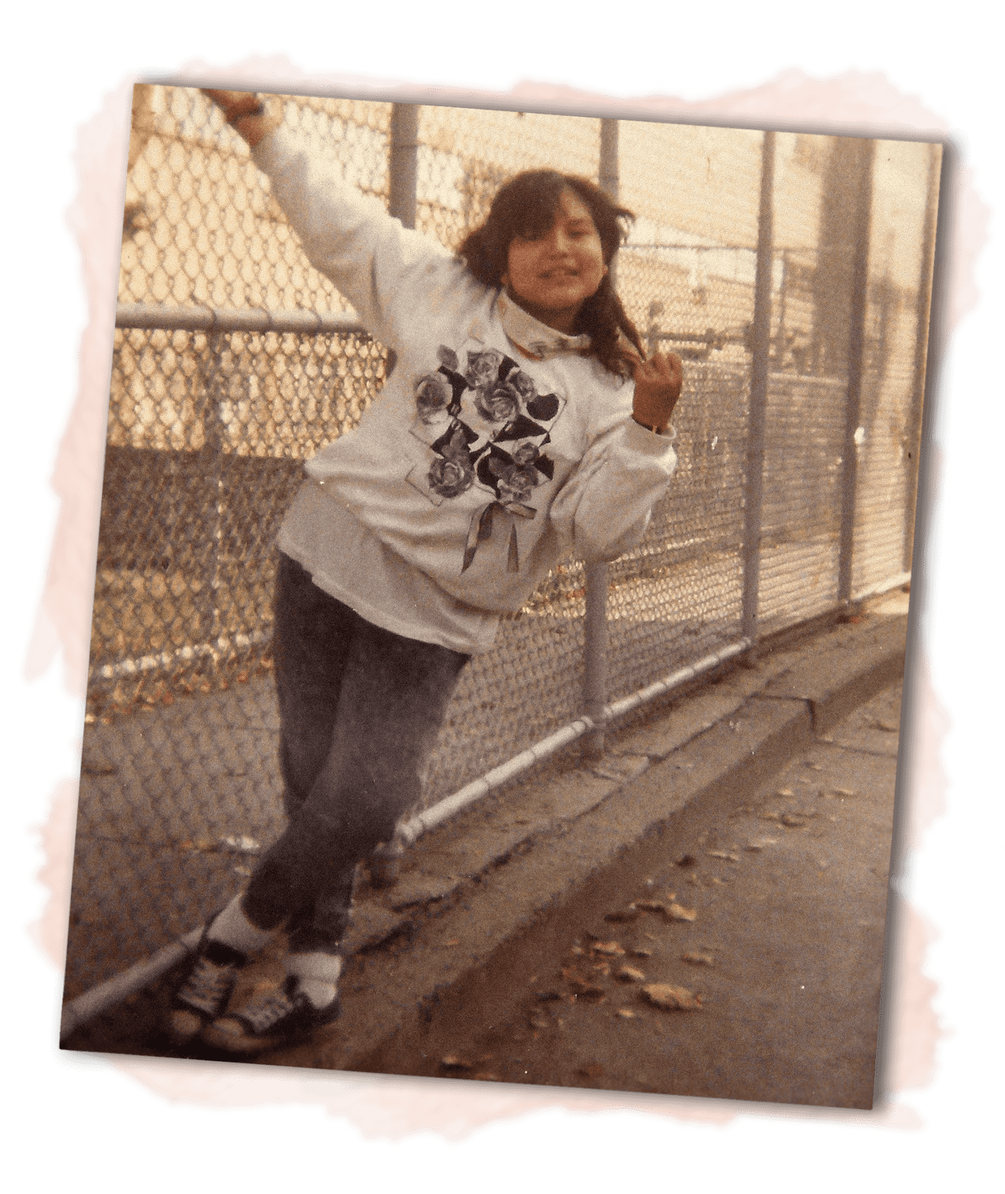
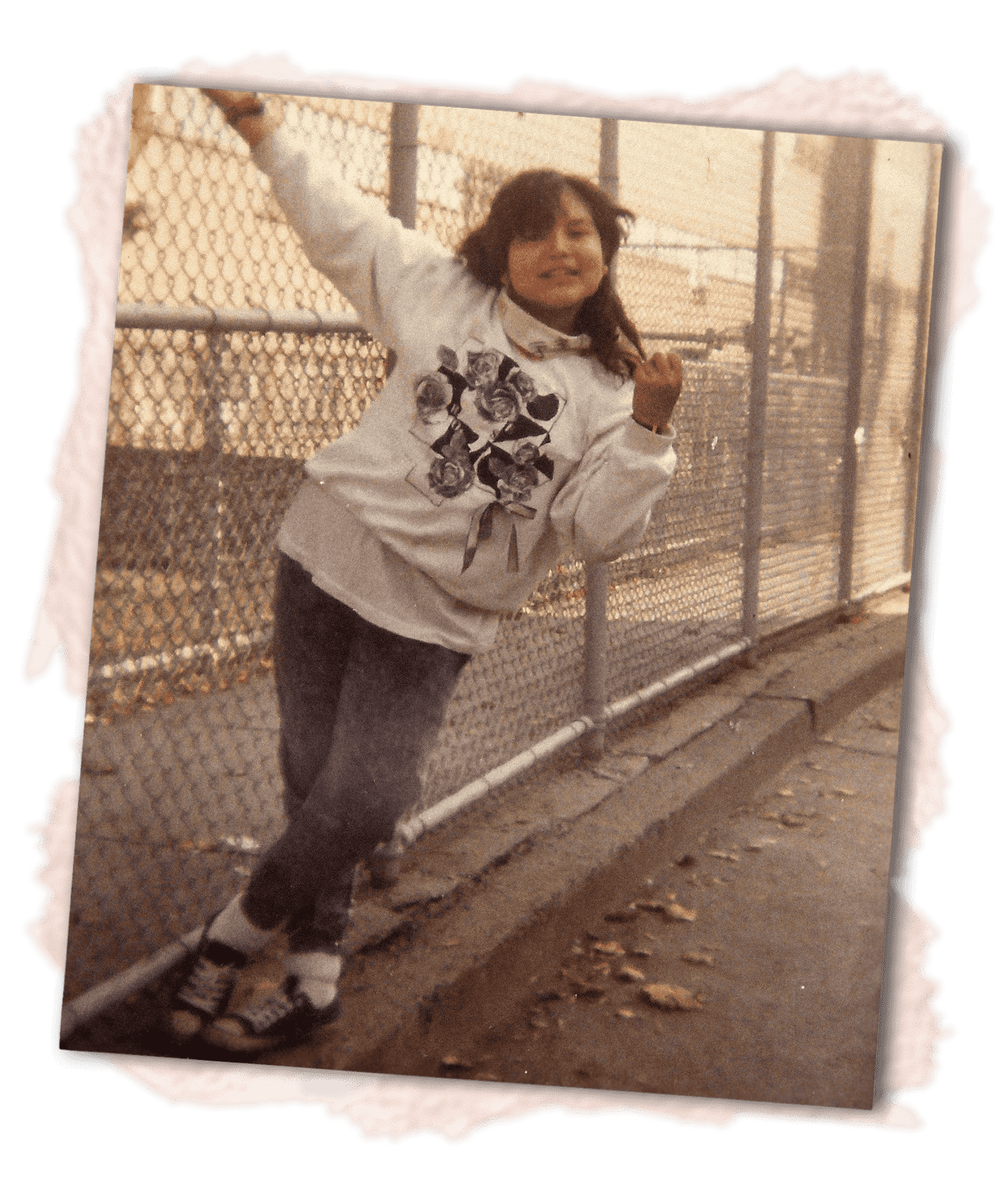
Updating patricia images and updating navbar

diff --git a/css/main.css b/css/main.css
@@ -1,1 +1,1 @@
-@import url('https://fonts.googleapis.com/css?family=Lato');@font-face{font-family:"Quadraat";src:url('../css/fonts/QuadraatOT-Regular.otf')}html *{-webkit-font-smoothing:antialiased;-moz-osx-font-smoothing:grayscale}*,*:after,*:before{-webkit-box-sizing:border-box;-moz-box-sizing:border-box;box-sizing:border-box;margin:0}html,body,#ng-view,#ng-body{height:auto;width:100%;padding:0;margin:0}body{font-family:'Quadraat'}ul{text-align:justify;list-style:none}li span{padding:auto}.row{margin:0}.page-wrap{padding-top:50px;background:#EFE8D8}.section-header{font-size:26px;color:#8b181a;text-align:center;font-weight:bold;margin:auto;width:auto;font-family:'Lato'}.section-divider{width:50px;border-top:1px solid #8b181a;margin:30px auto}.section-wrapper{padding:30px;width:100%}#coming-soon-wrapper{text-align:center;color:#E6E6E6;font-family:'Lato';display:flex;align-items:center}#coming-soon-wrapper h1{text-align:center;width:100%}a{word-wrap:break-word;-webkit-transition:color .1s ease-in,background .1s ease-in;-moz-transition:color .1s ease-in,background .1s ease-in;-ms-transition:color .1s ease-in,background .1s ease-in;-o-transition:color .1s ease-in,background .1s ease-in;transition:color .1s ease-in,background .1s ease-in}a:hover,a:focus{outline:0}a:before,a:after{-webkit-transition:color .1s ease-in,background .1s ease-in;-moz-transition:color .1s ease-in,background .1s ease-in;-ms-transition:color .1s ease-in,background .1s ease-in;-o-transition:color .1s ease-in,background .1s ease-in;transition:color .1s ease-in,background .1s ease-in}.dropdown-menu{text-align:center;background-color:white;padding:10px}.dropdown ul li a{color:#8b181a;background-color:transparent;font-weight:bold;font-size:16px}.nav-pills{height:auto}.nav-pills>li.active>a,.nav-pills>li.active>a:hover,.nav-pills>li.active>a:focus,.dropdown>ul>li>a:hover,.dropdown>ul>li>a:focus,.dropdown>ul>li>a:active,.nav>li>a:hover,.nav>li>a:focus,nav>li>a:active{background-color:transparent;text-decoration:underline}.nav>li>a:hover,.nav>li>a:focus{text-decoration:underline}.nav-pills>li{float:none;padding:10px;text-align:right}.nav-pills>li>a{padding:18px 15px;color:#8b181a}.navbar-header{height:100%}.navbar{font-weight:800;font-size:16px;margin-bottom:50px;font-family:'Lato';height:50px;background-color:white}.navbar-collapse{width:auto;float:right}.navbar-fixed-top{margin-bottom:0}.navbar-fixed-top .container{padding-left:0;padding-right:0}.navbar-brand{background:url('../resources/logos/navbar_logo.png');height:100%;background-repeat:no-repeat;background-size:contain;width:270px;padding:0;background-position:0}.nav{background-color:white}.glyphicon{color:#8b181a}custom-footer,footer{height:50px}footer{float:left;width:100%;padding:15px 0 15px 0;color:#8b181a;font-family:'Lato';height:50px;display:flex;align-items:center;background-color:white}footer span{display:inline-block;width:33%;padding:0 5%}footer #footer-text{text-align:left}footer #footer-copyright{text-align:right}#footer-social-media-icons{text-align:center}#footer-social-media-icons a{margin:0 15px;height:15px;width:15px}#footer-social-media-icons a img{width:inherit;height:inherit}#blurb-logo{background:url('../resources/logos/large_logo.png');height:50%;width:100%;background-repeat:no-repeat;background-size:contain}#blurb{text-align:center;float:left;color:white}#blurb p{padding-top:10%;width:100%;margin:10% auto;font-size:18px}.profile-name{font-size:24px;font-weight:bold;font-family:'Quadraat';width:100%}#landing-background{margin-top:0;padding-top:50px}#landing-background video{display:none}#landing-background #profile-left{background:url('../resources/landing/sonya_mobile.png');background-size:cover;background-position:50%;background-repeat:no-repeat;display:flex;align-items:center;-webkit-transition:color .1s ease-in,background .1s ease-in;-moz-transition:color .1s ease-in,background .1s ease-in;-ms-transition:color .1s ease-in,background .1s ease-in;-o-transition:color .1s ease-in,background .1s ease-in;transition:color .1s ease-in,background .1s ease-in}#landing-background #profile-left:hover{background:url('../resources/landing/sonya_mobile_2.png');background-size:cover;background-position:50%;background-repeat:no-repeat;-webkit-transition:color .1s ease-in,background .1s ease-in;-moz-transition:color .1s ease-in,background .1s ease-in;-ms-transition:color .1s ease-in,background .1s ease-in;-o-transition:color .1s ease-in,background .1s ease-in;transition:color .1s ease-in,background .1s ease-in}#landing-background #profile-right{background:url('../resources/landing/patricia_mobile.png');background-size:cover;background-position:50%;background-repeat:no-repeat;display:flex;align-items:center;-webkit-transition:color .1s ease-in,background .1s ease-in;-moz-transition:color .1s ease-in,background .1s ease-in;-ms-transition:color .1s ease-in,background .1s ease-in;-o-transition:color .1s ease-in,background .1s ease-in;transition:color .1s ease-in,background .1s ease-in}#landing-background #profile-right:hover{background:url('../resources/landing/patricia_mobile_2.png');background-size:cover;background-position:50%;background-repeat:no-repeat;-webkit-transition:color .1s ease-in,background .1s ease-in;-moz-transition:color .1s ease-in,background .1s ease-in;-ms-transition:color .1s ease-in,background .1s ease-in;-o-transition:color .1s ease-in,background .1s ease-in;transition:color .1s ease-in,background .1s ease-in}#landing-background #profile-right,#landing-background #profile-left{background-position:50%;background-repeat:no-repeat;background-size:cover;color:white;text-align:center;margin:auto;padding:5%}#landing-background #profile-right .profile-description,#landing-background #profile-left .profile-description{border-top:1px solid white;padding-top:12px}#landing-background #col-left{float:left;align-items:center;display:flex}#landing-background #col-right{float:right;align-items:center;display:flex}#about-background{height:auto;background:#EFE8D8;background-size:cover}#about-background div{height:auto}#about-background .producers-wrapper{height:auto;display:inline-table}#blurb-wrapper{background-color:transparent}#blurb-wrapper p{padding:30px;text-align:center}#blurb-wrapper img{display:none}.producers-wrapper{background-color:white;padding:15px;margin:5% auto;text-align:center}.producers-wrapper img{border-radius:100px;margin:30px;width:150px;height:150px}.producers-wrapper .section-header{font-size:14px}.producers-blurb{font-family:'Quadraat'}#about-background .team-wrapper{background-color:white;height:300px;width:25%;padding:15px;text-align:center;display:inline-table}#about-background .team-wrapper img{border-radius:100px;margin:15px;width:150px;height:150px}#about-background .team-wrapper .section-header{font-size:14px}#about-background .team-wrapper .team-role,#about-background .team-wrapper .team-sub-role{color:#8b181a;font-family:'Lato';font-size:14px;height:18px}#about-background #team-table{margin:auto;text-align:center}#about-background .team-social-media img{width:25px;height:25px;border-radius:0;margin:15px 5px}#credits-section{background-color:white;margin-bottom:50px;font-family:'Lato'}#credits-section .sponsor{width:33%;display:inline-block;text-align:center;padding:15px 0}#credits-section .sponsor img{max-width:100%;width:auto;height:80px}#credits-section #credits-blurb{text-align:center;margin-bottom:30px;font-family:'Quadraat'}#next-background{text-align:center;font-family:'Quadraat'}#next-background .section-wrapper{padding:10% 20%}#next-blurb{font-size:36px;color:#8b181a}#next-author-quote{font-style:italic;color:#8b181a}#contact-blurb{padding:5% 20%;background-color:transparent;margin:10% auto}#contact-blurb span{color:#8b181a}#sonya-background{background:url('../resources/sonya/background.jpg');color:white;display:flex;align-items:center;min-height:600px}#sonya-background h1{text-align:center;width:100%}#patricia-background{background:url('../resources/patricia/background.jpg');color:white;display:flex;align-items:center;min-height:600px}#patricia-background h1{text-align:center;width:100%}@media (max-width:480px){#r0{padding-left:0;padding-right:0}.navbar .navbar-collapse{max-height:none}.navbar ul{float:none}.navbar ul:not{display:block}.navbar li{float:none;display:block}.navbar li a{padding-top:12px;padding-bottom:12px}.navbar-brand{width:250px}#footer-social-media-icons a{height:15px;width:15px}footer{font-size:13px}}@media (max-width:690px){.navbar .container{padding-left:10px;padding-right:10px}.nav-pills,.navbar-right{height:auto}#landing-background #col-right,#landing-background #col-left{width:100%;height:30%}#about-background .team-wrapper{width:100%;margin:5% 0}#next-blurb{font-size:16px}#next-background .section-wrapper{padding:10%}}@media (min-width:690px){#landing-background #col-left,#landing-background #col-right{width:50%}}@media (max-width:768px){#footer-social-media-icons a{margin:0 3px}#credits-section .sponsor{width:100%;margin:5px auto}.navbar-collapse{right:-59px;position:relative}}@media (min-width:768px){#contact-tab{display:none}.dropdown:hover .dropdown-menu{display:block;border-radius:0}.nav{background-color:transparent}.nav-pills>li{float:left;padding:0;text-align:center}.nav-pills{height:50px}.nav-pills>li>a{display:flex;align-items:center}#blurb-wrapper p{padding:30px;text-align:center;display:inline-block;width:100%}#blurb-wrapper img{display:inline-block;width:30%;float:right;padding:30px}.section-wrapper{padding:30px 80px;width:100%}}@media (min-width:960px){.navbar{padding-left:0;padding-right:0}#about-background .producers-wrapper{width:30%;margin:1.33%;height:700px;display:inline-table}}@media (max-width:1000px) and (min-width:690px){#r0{padding-left:0;padding-right:0}.navbar .container{padding-left:10px;padding-right:10px}#col-left,#col-right{width:50%}}@media (max-width:1200px){.navbar{background-color:white}#mobile-blurb{display:inline-block;width:100%;height:600px;background:#EFE8D8;background-size:cover;background-repeat:no-repeat}#mobile-blurb #blurb-logo{background-position:50%}#mobile-blurb p{width:50%;margin:0 auto;text-align:center}#blurb{display:none}#landing-background #profile-left,#landing-background #profile-right{width:100%;height:300px;background-position-y:0}.page-wrap{height:auto}}@media (min-width:1200px){#blurb-logo{margin-top:30%}#blurb p{padding-top:0;margin:0 auto}#contact-form{width:700px;margin:30px auto;padding:50px}#landing-background{background-size:cover;background:transparent}#landing-background video{display:initial;position:fixed;top:50%;left:50%;min-width:100%;min-height:100%;width:auto;height:auto;z-index:-100;-ms-transform:translateX(-50%) translateY(-50%);-moz-transform:translateX(-50%) translateY(-50%);-webkit-transform:translateX(-50%) translateY(-50%);transform:translateX(-50%) translateY(-50%);background:url(polina.jpg) no-repeat;background-size:cover}html,body,#ng-view,#ng-body{height:100%}.page-wrap{height:100%;margin-bottom:-50px}.page-wrap:after{display:block}.page-wrap:after{height:50px}#mobile-blurb{display:none}#landing-background{padding-bottom:50px}#landing-background #profile-left{background:url('../resources/landing/sonya_desktop.png');background-size:contain;background-position:50%;background-repeat:no-repeat;-webkit-transition:color .1s ease-in,background .1s ease-in;-moz-transition:color .1s ease-in,background .1s ease-in;-ms-transition:color .1s ease-in,background .1s ease-in;-o-transition:color .1s ease-in,background .1s ease-in;transition:color .1s ease-in,background .1s ease-in}#landing-background #profile-left:hover{background:url('../resources/landing/sonya_desktop_2.png');background-size:contain;background-position:50%;background-repeat:no-repeat;-webkit-transition:color .1s ease-in,background .1s ease-in;-moz-transition:color .1s ease-in,background .1s ease-in;-ms-transition:color .1s ease-in,background .1s ease-in;-o-transition:color .1s ease-in,background .1s ease-in;transition:color .1s ease-in,background .1s ease-in}#landing-background #profile-right{background:url('../resources/landing/patricia_desktop.png');background-size:contain;background-position:50%;background-repeat:no-repeat;-webkit-transition:color .1s ease-in,background .1s ease-in;-moz-transition:color .1s ease-in,background .1s ease-in;-ms-transition:color .1s ease-in,background .1s ease-in;-o-transition:color .1s ease-in,background .1s ease-in;transition:color .1s ease-in,background .1s ease-in}#landing-background #profile-right:hover{background:url('../resources/landing/patricia_desktop_2.png');background-size:contain;background-position:50%;background-repeat:no-repeat;-webkit-transition:color .1s ease-in,background .1s ease-in;-moz-transition:color .1s ease-in,background .1s ease-in;-ms-transition:color .1s ease-in,background .1s ease-in;-o-transition:color .1s ease-in,background .1s ease-in;transition:color .1s ease-in,background .1s ease-in}#landing-background #col-left,#landing-background #col-right{width:33%}#landing-background #profile-right,#landing-background #profile-left{color:white;text-align:center;height:80%;width:80%}#landing-background .col{width:33%;height:100%;margin:0}}@media (min-width:1400px){.section-wrapper{padding:30px 20%}}
+@import url('https://fonts.googleapis.com/css?family=Lato');@font-face{font-family:"Quadraat";src:url('../css/fonts/QuadraatOT-Regular.otf')}html *{-webkit-font-smoothing:antialiased;-moz-osx-font-smoothing:grayscale}*,*:after,*:before{-webkit-box-sizing:border-box;-moz-box-sizing:border-box;box-sizing:border-box;margin:0}html,body,#ng-view,#ng-body{height:auto;width:100%;padding:0;margin:0}body{font-family:'Quadraat'}ul{text-align:justify;list-style:none}li span{padding:auto}.row{margin:0}.page-wrap{padding-top:50px;background:#EFE8D8}.section-header{font-size:26px;color:#8b181a;text-align:center;font-weight:bold;margin:auto;width:auto;font-family:'Lato'}.section-divider{width:50px;border-top:1px solid #8b181a;margin:30px auto}.section-wrapper{padding:30px;width:100%}#coming-soon-wrapper{text-align:center;color:#E6E6E6;font-family:'Lato';display:flex;align-items:center}#coming-soon-wrapper h1{text-align:center;width:100%}a{word-wrap:break-word;-webkit-transition:color .1s ease-in,background .1s ease-in;-moz-transition:color .1s ease-in,background .1s ease-in;-ms-transition:color .1s ease-in,background .1s ease-in;-o-transition:color .1s ease-in,background .1s ease-in;transition:color .1s ease-in,background .1s ease-in}a:hover,a:focus{outline:0}a:before,a:after{-webkit-transition:color .1s ease-in,background .1s ease-in;-moz-transition:color .1s ease-in,background .1s ease-in;-ms-transition:color .1s ease-in,background .1s ease-in;-o-transition:color .1s ease-in,background .1s ease-in;transition:color .1s ease-in,background .1s ease-in}.dropdown-menu{text-align:center;background-color:white;padding:10px}.dropdown ul li a{color:#8b181a;background-color:transparent;font-weight:bold;font-size:16px}.nav-pills{height:auto}.nav-pills>li.active>a,.nav-pills>li.active>a:hover,.nav-pills>li.active>a:focus,.dropdown>ul>li>a:hover,.dropdown>ul>li>a:focus,.dropdown>ul>li>a:active,.nav>li>a:hover,.nav>li>a:focus,nav>li>a:active{background-color:transparent;text-decoration:underline}.nav>li>a:hover,.nav>li>a:focus{text-decoration:underline}.nav-pills>li{float:none;padding:10px;text-align:left}.nav-pills>li>a{padding:18px 15px;color:#8b181a}.navbar-header{height:100%}.navbar{font-weight:800;font-size:16px;margin-bottom:50px;font-family:'Lato';height:50px;background-color:white}.navbar-collapse{width:auto;float:right}.navbar-fixed-top{margin-bottom:0}.navbar-fixed-top .container{padding-left:0;padding-right:0}.navbar-brand{background:url('../resources/logos/navbar_logo.png');height:100%;background-repeat:no-repeat;background-size:contain;width:270px;padding:0;background-position:0}.nav{background-color:white}.nav .hidden-tab{display:none;font-weight:500;text-align:left;padding-left:20px}.glyphicon{color:#8b181a}custom-footer,footer{height:50px}footer{float:left;width:100%;padding:15px 0 15px 0;color:#8b181a;font-family:'Lato';height:50px;display:flex;align-items:center;background-color:white}footer span{display:inline-block;width:33%;padding:0 5%}footer #footer-text{text-align:left}footer #footer-copyright{text-align:right}#footer-social-media-icons{text-align:center}#footer-social-media-icons a{margin:0 15px;height:15px;width:15px}#footer-social-media-icons a img{width:inherit;height:inherit}#blurb-logo{background:url('../resources/logos/large_logo.png');height:50%;width:100%;background-repeat:no-repeat;background-size:contain}#blurb{text-align:center;float:left;color:white}#blurb p{padding-top:10%;width:100%;margin:10% auto;font-size:18px}.profile-name{font-size:24px;font-weight:bold;font-family:'Quadraat';width:100%}#landing-background{margin-top:0;padding-top:50px}#landing-background video{display:none}#landing-background #profile-left{background:url('../resources/landing/sonya_mobile.png');background-size:cover;background-position:50%;background-repeat:no-repeat;display:flex;align-items:center;-webkit-transition:color .1s ease-in,background .1s ease-in;-moz-transition:color .1s ease-in,background .1s ease-in;-ms-transition:color .1s ease-in,background .1s ease-in;-o-transition:color .1s ease-in,background .1s ease-in;transition:color .1s ease-in,background .1s ease-in}#landing-background #profile-left:hover{background:url('../resources/landing/sonya_mobile_2.png');background-size:cover;background-position:50%;background-repeat:no-repeat;-webkit-transition:color .1s ease-in,background .1s ease-in;-moz-transition:color .1s ease-in,background .1s ease-in;-ms-transition:color .1s ease-in,background .1s ease-in;-o-transition:color .1s ease-in,background .1s ease-in;transition:color .1s ease-in,background .1s ease-in}#landing-background #profile-right{background:url('../resources/landing/patricia_mobile.png');background-size:cover;background-position:50%;background-repeat:no-repeat;display:flex;align-items:center;-webkit-transition:color .1s ease-in,background .1s ease-in;-moz-transition:color .1s ease-in,background .1s ease-in;-ms-transition:color .1s ease-in,background .1s ease-in;-o-transition:color .1s ease-in,background .1s ease-in;transition:color .1s ease-in,background .1s ease-in}#landing-background #profile-right:hover{background:url('../resources/landing/patricia_mobile_2.png');background-size:cover;background-position:50%;background-repeat:no-repeat;-webkit-transition:color .1s ease-in,background .1s ease-in;-moz-transition:color .1s ease-in,background .1s ease-in;-ms-transition:color .1s ease-in,background .1s ease-in;-o-transition:color .1s ease-in,background .1s ease-in;transition:color .1s ease-in,background .1s ease-in}#landing-background #profile-right,#landing-background #profile-left{background-position:50%;background-repeat:no-repeat;background-size:cover;color:white;text-align:center;margin:auto;padding:5%}#landing-background #profile-right .profile-description,#landing-background #profile-left .profile-description{border-top:1px solid white;padding-top:12px}#landing-background #col-left{float:left;align-items:center;display:flex}#landing-background #col-right{float:right;align-items:center;display:flex}#about-background{height:auto;background:#EFE8D8;background-size:cover}#about-background div{height:auto}#about-background .producers-wrapper{height:auto;display:inline-table}#blurb-wrapper{background-color:transparent}#blurb-wrapper p{padding:30px;text-align:center}#blurb-wrapper img{display:none}.producers-wrapper{background-color:white;padding:15px;margin:5% auto;text-align:center}.producers-wrapper img{border-radius:100px;margin:30px;width:150px;height:150px}.producers-wrapper .section-header{font-size:14px}.producers-blurb{font-family:'Quadraat'}#about-background .team-wrapper{background-color:white;height:300px;width:25%;padding:15px;text-align:center;display:inline-table}#about-background .team-wrapper img{border-radius:100px;margin:15px;width:150px;height:150px}#about-background .team-wrapper .section-header{font-size:14px}#about-background .team-wrapper .team-role,#about-background .team-wrapper .team-sub-role{color:#8b181a;font-family:'Lato';font-size:14px;height:18px}#about-background #team-table{margin:auto;text-align:center}#about-background .team-social-media img{width:25px;height:25px;border-radius:0;margin:15px 5px}#credits-section{background-color:white;margin-bottom:50px;font-family:'Lato'}#credits-section .sponsor{width:33%;display:inline-block;text-align:center;padding:15px 0}#credits-section .sponsor img{max-width:100%;width:auto;height:80px}#credits-section #credits-blurb{text-align:center;margin-bottom:30px;font-family:'Quadraat'}#next-background{text-align:center;font-family:'Quadraat'}#next-background .section-wrapper{padding:10% 20%}#next-blurb{font-size:36px;color:#8b181a}#next-author-quote{font-style:italic;color:#8b181a}#contact-blurb{padding:5% 20%;background-color:transparent;margin:10% auto}#contact-blurb span{color:#8b181a}#sonya-background{background:url('../resources/sonya/background.jpg');color:white;display:flex;align-items:center;min-height:600px}#sonya-background h1{text-align:center;width:100%}#patricia-background{background:url('../resources/patricia/background.jpg');color:white;display:flex;align-items:center;min-height:600px}#patricia-background h1{text-align:center;width:100%}@media (max-width:480px){#r0{padding-left:0;padding-right:0}.navbar .navbar-collapse{max-height:none}.navbar ul{float:none}.navbar ul:not{display:block}.navbar li{float:none;display:block}.navbar li a{padding-top:12px;padding-bottom:12px}.navbar-brand{width:250px}#footer-social-media-icons a{height:15px;width:15px}footer{font-size:13px}}@media (max-width:690px){.navbar .container{padding-left:10px;padding-right:10px}.nav-pills,.navbar-right{height:auto}#landing-background #col-right,#landing-background #col-left{width:100%;height:30%}#about-background .team-wrapper{width:100%;margin:5% 0}#next-blurb{font-size:16px}#next-background .section-wrapper{padding:10%}}@media (min-width:690px){#landing-background #col-left,#landing-background #col-right{width:50%}}@media (max-width:768px){#footer-social-media-icons a{margin:0 3px}#credits-section .sponsor{width:100%;margin:5px auto}.navbar-collapse{right:-59px;position:relative}.nav .hidden-tab{display:block}}@media (min-width:768px){#contact-tab{display:none}.dropdown:hover .dropdown-menu{display:block;border-radius:0}.nav{background-color:transparent}.nav-pills>li{float:left;padding:0;text-align:center}.nav-pills{height:50px}.nav-pills>li>a{display:flex;align-items:center}#blurb-wrapper p{padding:30px;text-align:center;display:inline-block;width:100%}#blurb-wrapper img{display:inline-block;width:30%;float:right;padding:30px}.section-wrapper{padding:30px 80px;width:100%}}@media (min-width:960px){.navbar{padding-left:0;padding-right:0}#about-background .producers-wrapper{width:30%;margin:1.33%;height:700px;display:inline-table}}@media (max-width:1000px) and (min-width:690px){#r0{padding-left:0;padding-right:0}.navbar .container{padding-left:10px;padding-right:10px}#col-left,#col-right{width:50%}}@media (max-width:1200px){.navbar{background-color:white}#mobile-blurb{display:inline-block;width:100%;height:600px;background:#EFE8D8;background-size:cover;background-repeat:no-repeat}#mobile-blurb #blurb-logo{background-position:50%}#mobile-blurb p{width:50%;margin:0 auto;text-align:center}#blurb{display:none}#landing-background #profile-left,#landing-background #profile-right{width:100%;height:300px;background-position-y:0}.page-wrap{height:auto}}@media (min-width:1200px){#blurb-logo{margin-top:30%}#blurb p{padding-top:0;margin:0 auto}#contact-form{width:700px;margin:30px auto;padding:50px}#landing-background{background-size:cover;background:transparent}#landing-background video{display:initial;position:fixed;top:50%;left:50%;min-width:100%;min-height:100%;width:auto;height:auto;z-index:-100;-ms-transform:translateX(-50%) translateY(-50%);-moz-transform:translateX(-50%) translateY(-50%);-webkit-transform:translateX(-50%) translateY(-50%);transform:translateX(-50%) translateY(-50%);background:url(polina.jpg) no-repeat;background-size:cover}html,body,#ng-view,#ng-body{height:100%}.page-wrap{height:100%;margin-bottom:-50px}.page-wrap:after{display:block}.page-wrap:after{height:50px}#mobile-blurb{display:none}#landing-background{padding-bottom:50px}#landing-background #profile-left{background:url('../resources/landing/sonya_desktop.png');background-size:contain;background-position:50%;background-repeat:no-repeat;-webkit-transition:color .1s ease-in,background .1s ease-in;-moz-transition:color .1s ease-in,background .1s ease-in;-ms-transition:color .1s ease-in,background .1s ease-in;-o-transition:color .1s ease-in,background .1s ease-in;transition:color .1s ease-in,background .1s ease-in}#landing-background #profile-left:hover{background:url('../resources/landing/sonya_desktop_2.png');background-size:contain;background-position:50%;background-repeat:no-repeat;-webkit-transition:color .1s ease-in,background .1s ease-in;-moz-transition:color .1s ease-in,background .1s ease-in;-ms-transition:color .1s ease-in,background .1s ease-in;-o-transition:color .1s ease-in,background .1s ease-in;transition:color .1s ease-in,background .1s ease-in}#landing-background #profile-right{background:url('../resources/landing/patricia_desktop.png');background-size:contain;background-position:50%;background-repeat:no-repeat;-webkit-transition:color .1s ease-in,background .1s ease-in;-moz-transition:color .1s ease-in,background .1s ease-in;-ms-transition:color .1s ease-in,background .1s ease-in;-o-transition:color .1s ease-in,background .1s ease-in;transition:color .1s ease-in,background .1s ease-in}#landing-background #profile-right:hover{background:url('../resources/landing/patricia_desktop_2.png');background-size:contain;background-position:50%;background-repeat:no-repeat;-webkit-transition:color .1s ease-in,background .1s ease-in;-moz-transition:color .1s ease-in,background .1s ease-in;-ms-transition:color .1s ease-in,background .1s ease-in;-o-transition:color .1s ease-in,background .1s ease-in;transition:color .1s ease-in,background .1s ease-in}#landing-background #col-left,#landing-background #col-right{width:33%}#landing-background #profile-right,#landing-background #profile-left{color:white;text-align:center;height:80%;width:80%}#landing-background .col{width:33%;height:100%;margin:0}}@media (min-width:1400px){.section-wrapper{padding:30px 20%}}

diff --git a/templates/partials/navbar.html b/templates/partials/navbar.html
@@ -33,6 +33,14 @@
                         </ul>
                     </li>
 
+                    <li ng-class='{active: tabService.isSet(3)' class='hidden-tab'>
+                      <a href='#/sonya' ng-click='tabService.setTab(3)'>Sonya</a>
+                    </li>
+
+                    <li ng-class='{active: tabService.isSet(3)' class='hidden-tab'>
+                      <a href='#/sonya' ng-click='tabService.setTab(3)'>Patricia</a>
+                    </li>
+
                     <li ng-class="{active: tabService.isSet(4)}">
                       <a href="#/next" ng-click="tabService.setTab(4)">What's Next</a>
                     </li>

diff --git a/less/main.less b/less/main.less
@@ -168,7 +168,7 @@ a:after {
 .nav-pills > li {
   float: none;
   padding: 10px;
-  text-align: right;
+  text-align: left;
 }
 
 .nav-pills>li>a {
@@ -215,6 +215,13 @@ a:after {
 
 .nav {
   background-color: white;
+
+  .hidden-tab {
+    display: none;
+    font-weight: 500;
+    text-align: left;
+    padding-left: 20px;
+  }
 }
 
 .glyphicon {
@@ -684,6 +691,12 @@ footer {
   .navbar-collapse {
     right: -59px;
     position: relative;
+  }
+
+  .nav {
+    .hidden-tab {
+      display: block;
+    }
   }
 }
 

diff --git a/css/libs/dev/bootstrap.css b/css/libs/dev/bootstrap.css
@@ -848,7 +848,6 @@ select[multiple].input-lg {
 }
 .nav > li {
   position: relative;
-  display: block;
 }
 .nav > li > a {
   position: relative;
